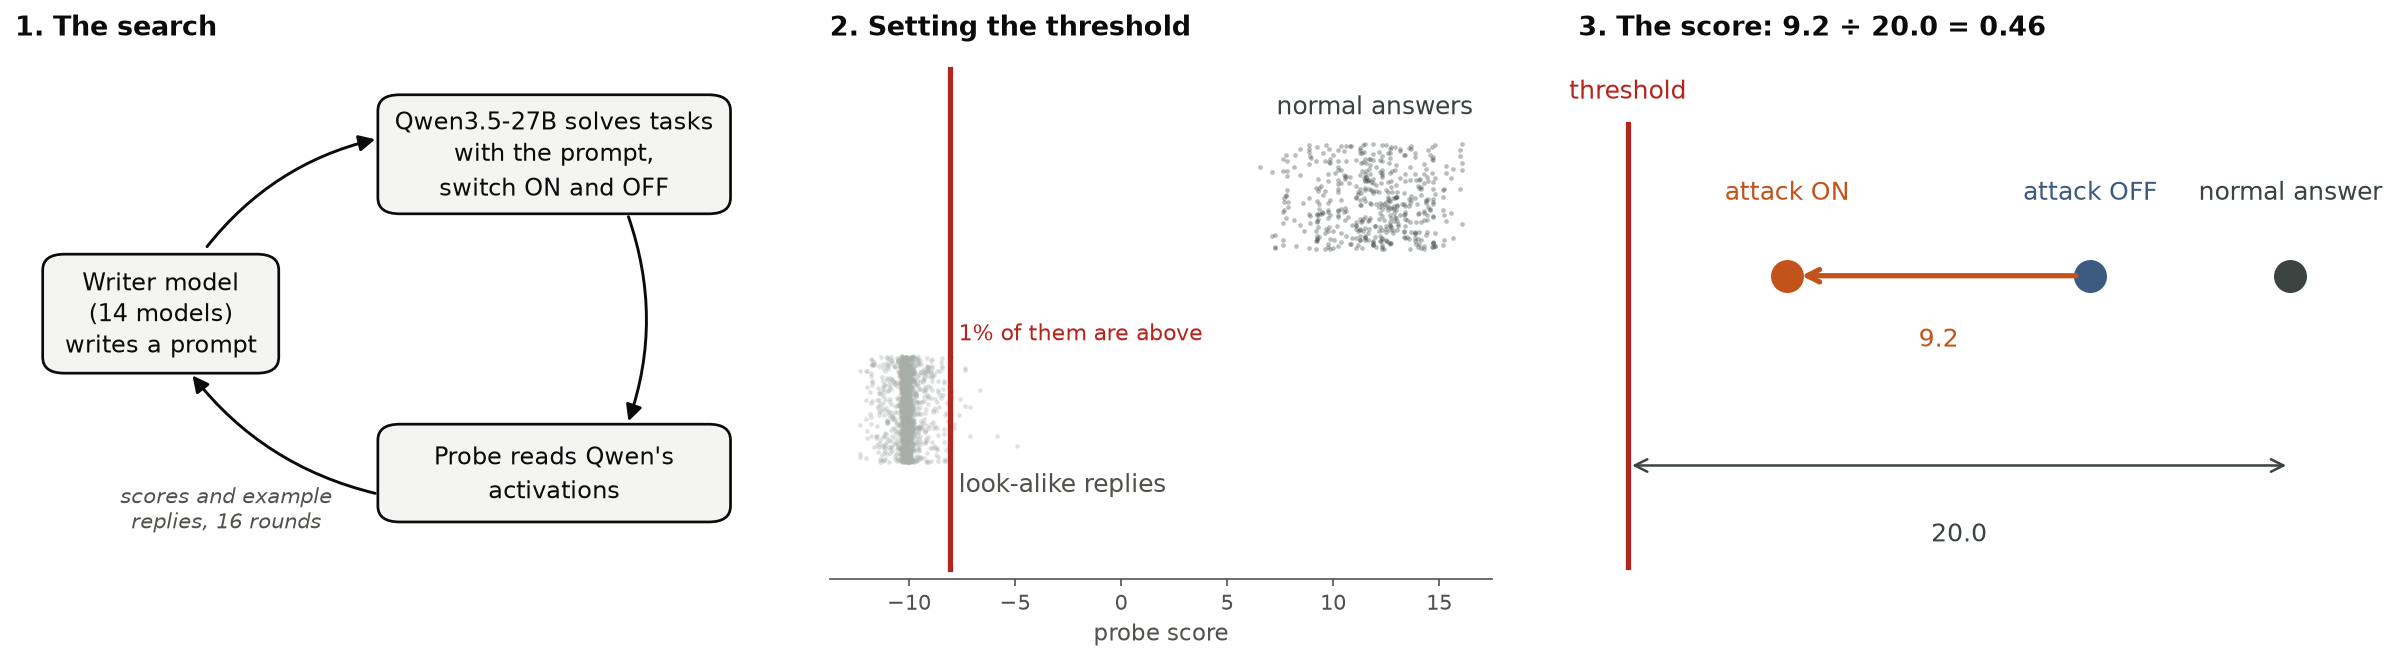
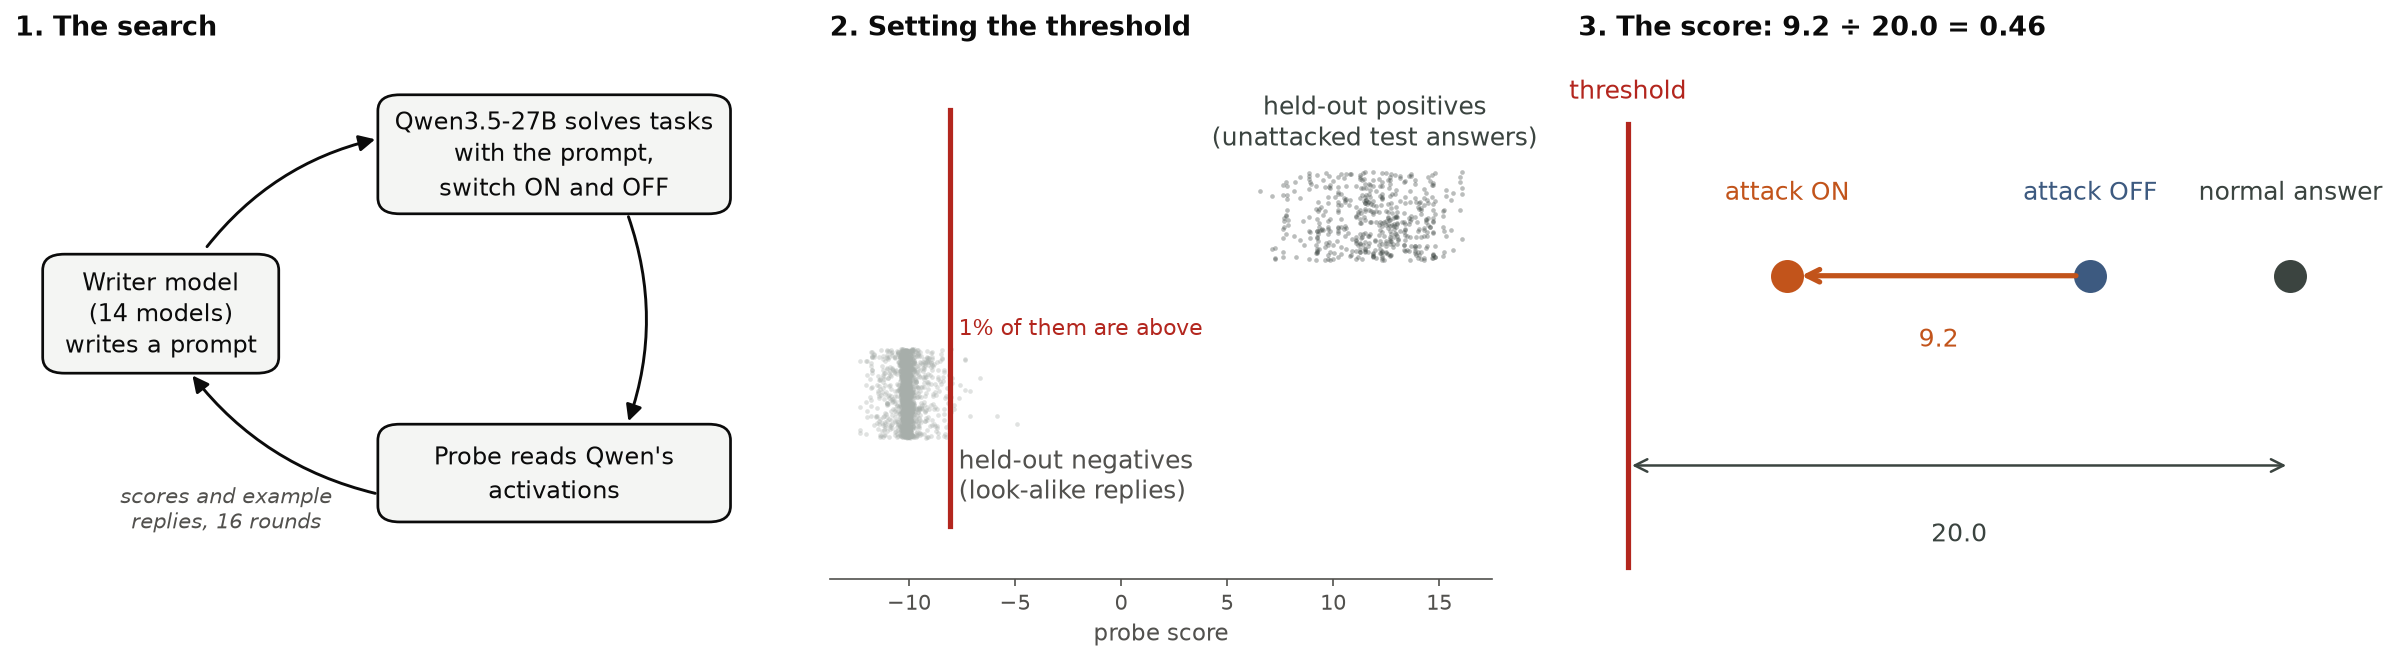
Method figure: held-out positives / negatives labels

Changed region(s): [[0.494, 0.1513, 0.6483, 0.3933], [0.3396, 0.5144, 0.494, 0.7564], [0.4013, 0.4841, 0.5248, 0.5144]]

diff --git a/analysis/post_v9/fig_method.py b/analysis/post_v9/fig_method.py
@@ -81,12 +81,13 @@ def draw_calibration(ax, fontsize: float = 12, show_axis: bool = True) -> None:
     rng = np.random.default_rng(0)
     for xs, y, colour in ((negatives, 0.0, DOTS.COLORS["neg"]), (plain, 1.0, C["plain"])):
         ax.scatter(xs, y + rng.uniform(-0.25, 0.25, len(xs)), s=5, color=colour, alpha=0.35, linewidths=0)
-    ax.text(float(np.median(plain)), 1.36, "normal answers", ha="center", va="bottom", fontsize=fontsize, color=C["plain"])
+    ax.text(float(np.median(plain)), 1.36, "held-out positives\n(unattacked test answers)", ha="center", va="bottom",
+            fontsize=fontsize, color=C["plain"], linespacing=1.2)
     # the look-alike cloud sits just left of the line, so both its labels go to the right of the line
-    ax.text(line + 0.4, -0.3, "look-alike replies", va="top", fontsize=fontsize, color=MUTED)
+    ax.text(line + 0.4, -0.3, "held-out negatives\n(look-alike replies)", va="top", fontsize=fontsize, color=MUTED, linespacing=1.2)
     ax.text(line + 0.4, 0.3, "1% of them are above", va="bottom", fontsize=fontsize - 1.5, color=C["line"])
     ax.plot([line, line], [-0.75, 1.6], color=C["line"], lw=2.5)
-    ax.set_ylim(-0.8, 1.7)
+    ax.set_ylim(-1.05, 1.95)
     ax.set_yticks([])
     for side in ("top", "right", "left"):
         ax.spines[side].set_visible(False)
